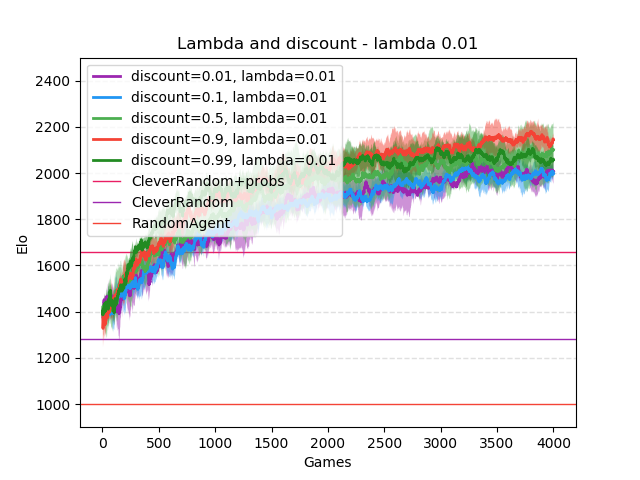
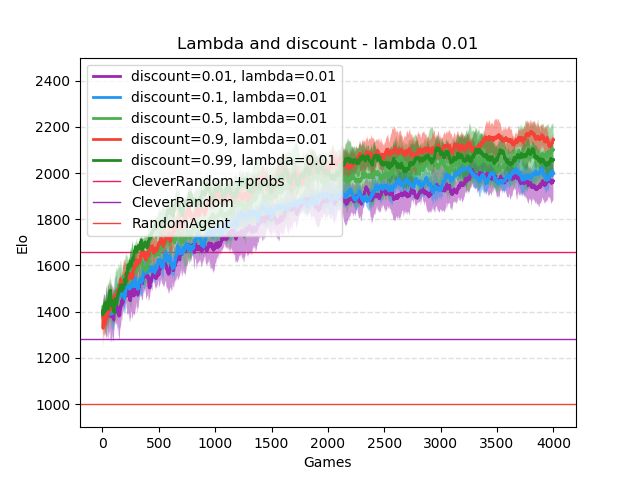
LR_FINAL

Changed region(s): [[0.5312, 0.3438, 0.875, 0.4688], [0.1562, 0.4688, 0.4062, 0.7188], [0.4062, 0.4375, 0.4375, 0.4688]]

diff --git a/Agents/NNAgent.py b/Agents/NNAgent.py
@@ -8,7 +8,7 @@ import torch.optim as optim
 
 
 class NNAgent(Agent):
-    def __init__(self, explore=False, doTrain=False, impala=False, calcprobs=True, minmax=False, lossf='MME', K=2500, dropout=0.0, alpha=None, discount=0.95, lambd=0.9, lr=0.0001, TopNvalues=3, cutOffdepth=3, ValueCutOff=50, ValueDiffCutOff=15, ProbabilityCutOff=0.001, historyLength=20, startAfterNgames=20, batchSize=100, sampleLenth=10, network=[50, 25, 10], analyse=False, montecarlo=False):
+    def __init__(self, explore=False, doTrain=False, impala=False, calcprobs=True, minmax=False, lossf='MME', K=2500, dropout=0.0, alpha=None, discount=0.95, lambd=0.95, lr=0.00002, TopNvalues=3, cutOffdepth=3, ValueCutOff=50, ValueDiffCutOff=15, ProbabilityCutOff=0.001, historyLength=20, startAfterNgames=20, batchSize=100, sampleLenth=10, network=[50, 25, 10], analyse=False, montecarlo=False):
         self.setup(explore, doTrain, impala, calcprobs, minmax, lossf, K, dropout, None, discount, lambd, (1 - discount * lambd * 0.99) * lr, 'NNAgent', TopNvalues, cutOffdepth, ValueCutOff, ValueDiffCutOff, ProbabilityCutOff, historyLength, startAfterNgames, batchSize, sampleLenth, network, analyse, montecarlo)
         self.optimizer = None
         self.optimise = True
